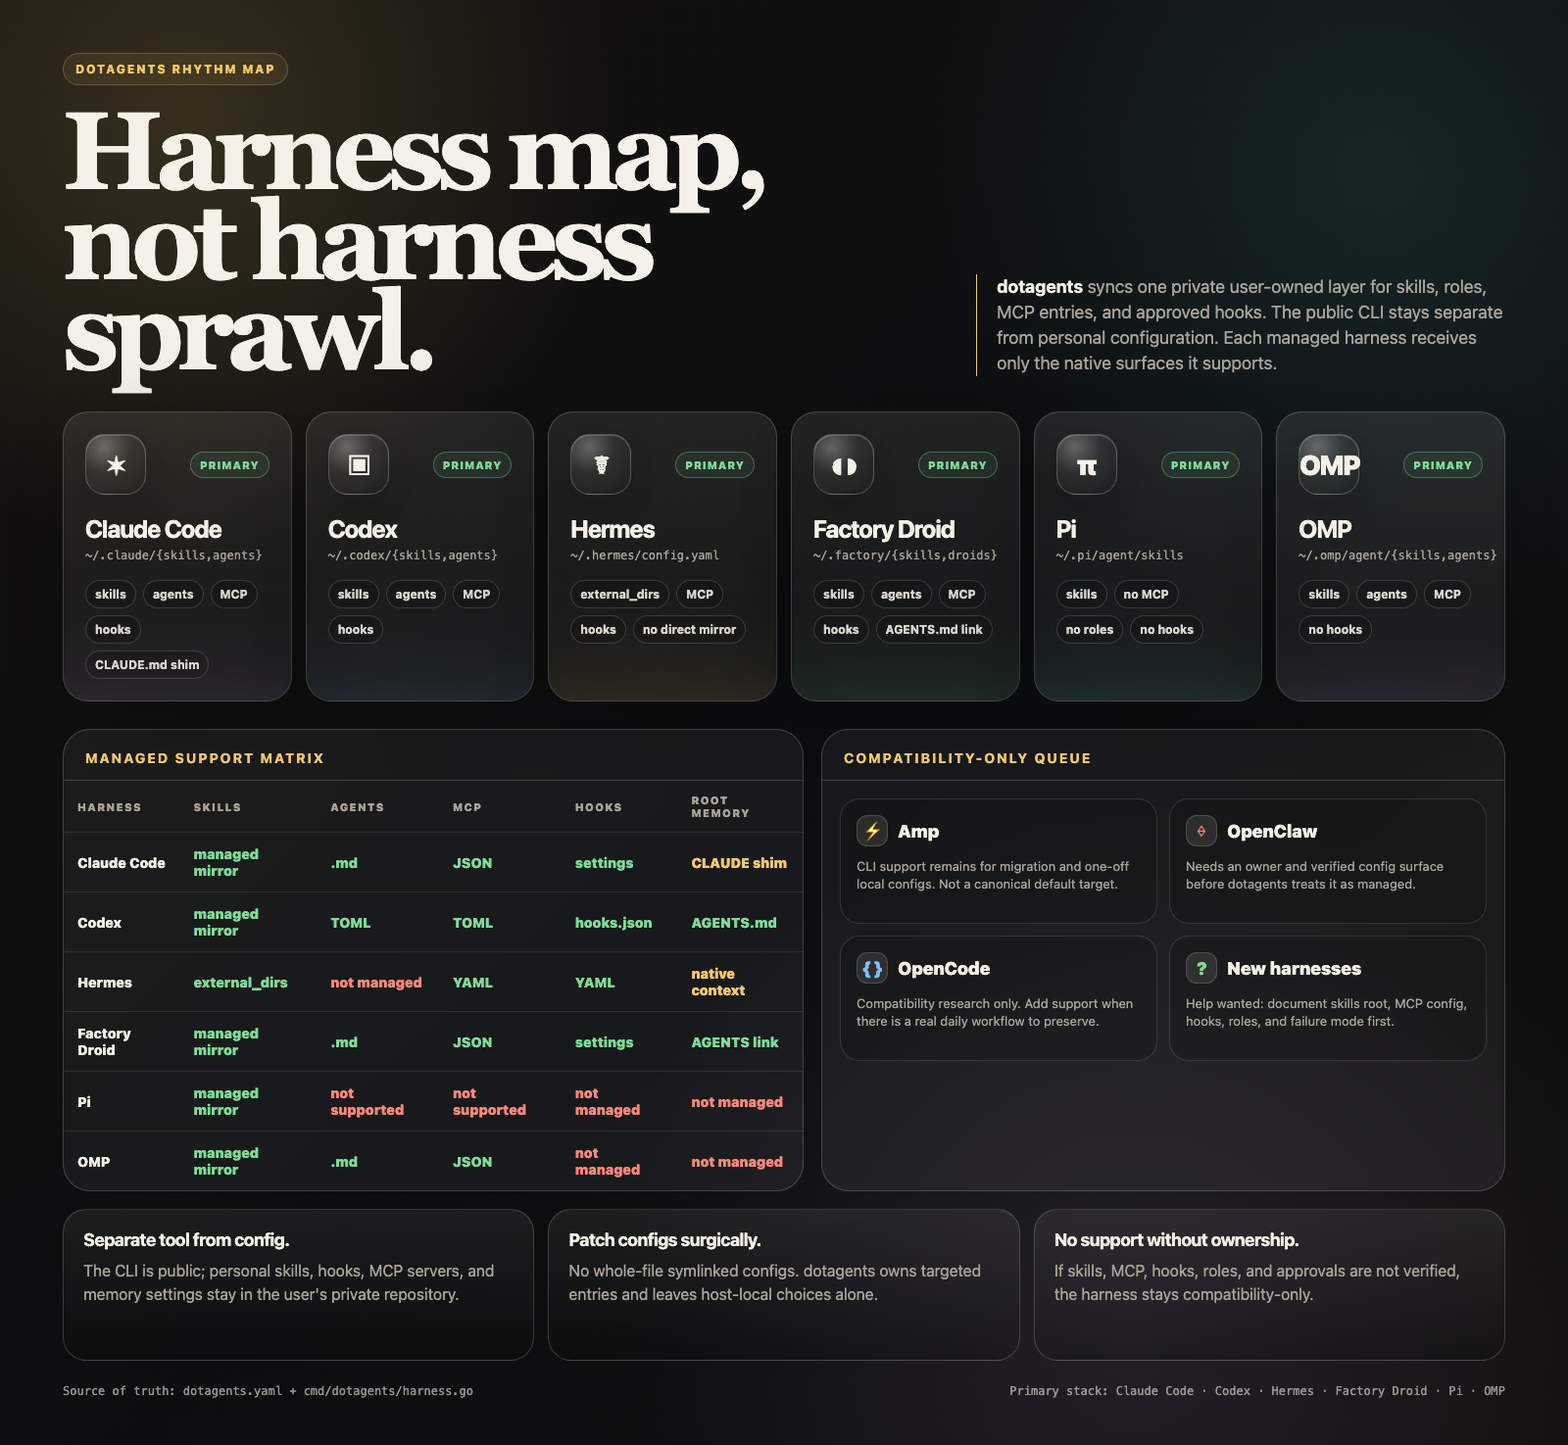
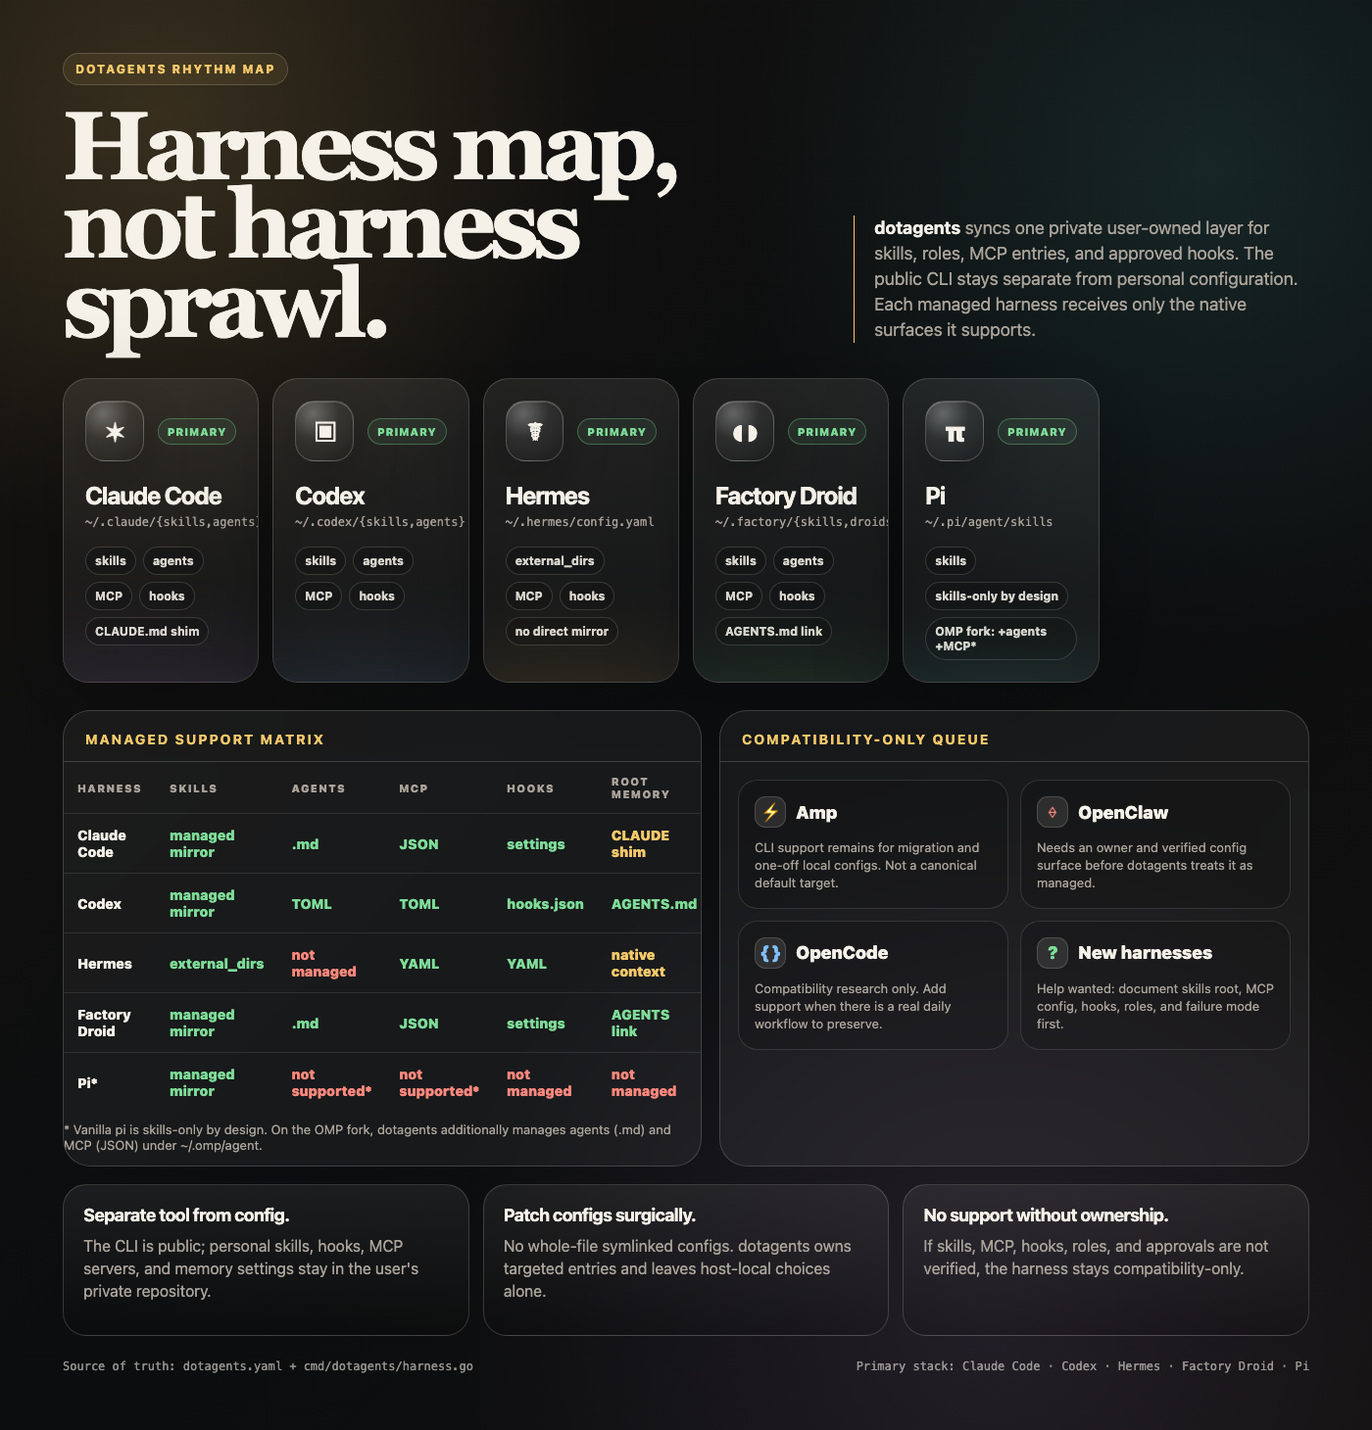
README as docs: full rework; fold OMP into Pi footnote everywhere

diff --git a/docs/site/index.html b/docs/site/index.html
@@ -4,7 +4,7 @@
 <meta charset="utf-8">
 <meta name="viewport" content="width=device-width, initial-scale=1">
 <title>dotagents - public CLI for your private agent config</title>
-<meta name="description" content="Public Go CLI that syncs skills, MCP servers, hooks, and roles from your private ~/.agents repository into Claude Code, Codex, Droid, Hermes, Pi, and OMP.">
+<meta name="description" content="Public Go CLI that syncs skills, MCP servers, hooks, and roles from your private ~/.agents repository into Claude Code, Codex, Droid, Hermes, and Pi.">
 <style>
   :root {
     color-scheme: dark;
@@ -266,7 +266,7 @@
         <div class="hname">Hermes</div>
         <div class="htag managed">managed</div>
       </div>
-      <!-- Pi - Greek pi (no public SVG logo) -->
+      <!-- Pi - Greek pi (no public SVG logo); OMP fork folded into the same card -->
       <div class="hcard">
         <div class="icon">
           <svg viewBox="0 0 24 24" xmlns="http://www.w3.org/2000/svg">
@@ -274,16 +274,6 @@
           </svg>
         </div>
         <div class="hname">Pi</div>
-        <div class="htag managed">managed</div>
-      </div>
-      <!-- OMP - Oh My Pi -->
-      <div class="hcard">
-        <div class="icon">
-          <svg viewBox="0 0 40 40" xmlns="http://www.w3.org/2000/svg">
-            <text x="20" y="25" text-anchor="middle" font-family="ui-sans-serif,-apple-system,sans-serif" font-size="12" font-weight="800" fill="var(--violet)">OMP</text>
-          </svg>
-        </div>
-        <div class="hname">OMP</div>
         <div class="htag managed">managed</div>
       </div>
       <!-- Amp - Sourcegraph triple chevron -->
@@ -397,11 +387,11 @@
           <tr><th scope="row">Codex</th><td class="y">yes</td><td class="y">yes</td><td class="y">yes</td><td class="y">yes</td><td class="y">AGENTS.md</td></tr>
           <tr><th scope="row">Factory Droid</th><td class="y">yes</td><td class="y">yes</td><td class="y">yes</td><td class="y">yes</td><td class="y">AGENTS link</td></tr>
           <tr><th scope="row">Hermes</th><td class="y">yes</td><td class="n">--</td><td class="y">yes</td><td class="y">yes</td><td style="color:var(--gold)">native ctx</td></tr>
-          <tr><th scope="row">Pi</th><td class="y">yes</td><td class="n">--</td><td class="n">--</td><td class="n">--</td><td class="n">--</td></tr>
-          <tr><th scope="row">OMP</th><td class="y">yes</td><td class="y">yes</td><td class="y">yes</td><td class="n">--</td><td class="n">--</td></tr>
+          <tr><th scope="row">Pi*</th><td class="y">yes</td><td class="n">--*</td><td class="n">--*</td><td class="n">--</td><td class="n">--</td></tr>
         </tbody>
       </table>
       </div>
+      <p class="section-sub" style="margin-top:10px">* Vanilla pi is skills-only by design; on the OMP fork dotagents additionally manages agent roles and MCP servers.</p>
     </div>
   </section>
 

diff --git a/docs/harness-map.html b/docs/harness-map.html
@@ -308,12 +308,7 @@
     <article class="card" style="--accent: var(--cyan)">
       <div class="topline"><div class="logo">π</div><div class="badge">primary</div></div>
       <h2>Pi</h2><div class="path">~/.pi/agent/skills</div>
-      <div class="chips"><span class="chip">skills</span><span class="chip">no MCP</span><span class="chip">no roles</span><span class="chip">no hooks</span></div>
-    </article>
-    <article class="card" style="--accent: var(--violet)">
-      <div class="topline"><div class="logo">OMP</div><div class="badge">primary</div></div>
-      <h2>OMP</h2><div class="path">~/.omp/agent/{skills,agents}</div>
-      <div class="chips"><span class="chip">skills</span><span class="chip">agents</span><span class="chip">MCP</span><span class="chip">no hooks</span></div>
+      <div class="chips"><span class="chip">skills</span><span class="chip">skills-only by design</span><span class="chip">OMP fork: +agents +MCP*</span></div>
     </article>
   </section>
 
@@ -328,11 +323,11 @@
           <tr><td>Codex</td><td class="yes">managed mirror</td><td class="yes">TOML</td><td class="yes">TOML</td><td class="yes">hooks.json</td><td class="yes">AGENTS.md</td></tr>
           <tr><td>Hermes</td><td class="yes">external_dirs</td><td class="no">not managed</td><td class="yes">YAML</td><td class="yes">YAML</td><td class="partial">native context</td></tr>
           <tr><td>Factory Droid</td><td class="yes">managed mirror</td><td class="yes">.md</td><td class="yes">JSON</td><td class="yes">settings</td><td class="yes">AGENTS link</td></tr>
-          <tr><td>Pi</td><td class="yes">managed mirror</td><td class="no">not supported</td><td class="no">not supported</td><td class="no">not managed</td><td class="no">not managed</td></tr>
-          <tr><td>OMP</td><td class="yes">managed mirror</td><td class="yes">.md</td><td class="yes">JSON</td><td class="no">not managed</td><td class="no">not managed</td></tr>
+          <tr><td>Pi*</td><td class="yes">managed mirror</td><td class="no">not supported*</td><td class="no">not supported*</td><td class="no">not managed</td><td class="no">not managed</td></tr>
         </tbody>
       </table>
       </div>
+      <p style="margin-top:10px; color: var(--muted); font-size: 13px">* Vanilla pi is skills-only by design. On the OMP fork, dotagents additionally manages agents (.md) and MCP (JSON) under ~/.omp/agent.</p>
     </div>
 
     <div class="panel">
@@ -354,7 +349,7 @@
 
   <footer>
     <span>Source of truth: dotagents.yaml + cmd/dotagents/harness.go</span>
-    <span>Primary stack: Claude Code · Codex · Hermes · Factory Droid · Pi · OMP</span>
+    <span>Primary stack: Claude Code · Codex · Hermes · Factory Droid · Pi</span>
   </footer>
 </main>
 </body>

diff --git a/README.md b/README.md
@@ -1,16 +1,25 @@
 # dotagents
 
-Dotfiles for your AI agents. The public `dotagents` CLI keeps one user-owned `~/.agents` repository as the canonical source for skills, MCP servers, hooks, and agent roles, then syncs each supported surface into Claude Code, Codex, Pi, Hermes, and other supported harnesses. External Git skills are commit-pinned in `dotagents.lock` and audited before delivery.
+Dotfiles for your AI agents.
 
-The public tool and private user configuration are separate repositories. Installing `yourconscience/dotagents` does not install the maintainer's personal prompts, hooks, or MCP catalog.
+One private `~/.agents` git repository holds your skills, MCP servers, hooks, and agent roles. The `dotagents` CLI syncs each of those into the native format of every coding agent you use — Claude Code, Codex, Factory Droid, Hermes, Pi — and follows you across machines the way dotfiles do. External skills are commit-pinned and audited before any agent loads them.
 
-**Landing page:** [yourconscience.github.io/dotagents](https://yourconscience.github.io/dotagents/) · [**Releases**](https://github.com/yourconscience/dotagents/releases)
+[**Releases**](https://github.com/yourconscience/dotagents/releases) · [Landing page](https://yourconscience.github.io/dotagents/)
 
 ![dotagents harness map](./docs/harness-map.png)
 
-## Install
+## Why
 
-Install the CLI on macOS or Linux:
+If you use more than one coding agent, you maintain the same four things — skills, MCP servers, hooks, subagent roles — in a different place and format for each harness. Copying them by hand drifts within a week. Shell config solved this decades ago with dotfiles: one versioned repo, rendered into place. dotagents applies that pattern to agent config.
+
+Two design choices worth knowing up front:
+
+- **User-level, not project-level.** Your setup lives in `~/.agents` and applies everywhere you work. Tools like rulesync and ruler generate per-project config instead; see [How it differs](#how-it-differs).
+- **The tool and your config are separate.** Installing dotagents never installs anyone else's prompts. Your `~/.agents` is yours, private, and versioned by you.
+
+## Quick start
+
+Install the CLI (macOS or Linux):
 
 ```bash
 # Prebuilt release binary
@@ -23,32 +32,44 @@ mise use -g github:yourconscience/dotagents
 go install github.com/yourconscience/dotagents/cmd/dotagents@latest
 ```
 
-Then create your private canonical configuration:
+Then run:
 
 ```bash
 dotagents setup
 ```
 
-`setup` creates `~/.agents` when needed, detects installed harnesses, scans their existing skills, roles, and MCP servers, offers to copy or convert that content without modifying the originals, writes `dotagents.yaml`, and runs the first sync. Name conflicts are resolved explicitly; content is never merged silently. Before the first sync touches a harness that already has content, setup previews exactly what would be removed or overwritten there and asks per harness; declining keeps that harness's existing files.
+`setup` does everything a first run needs, interactively:
 
-`setup` also offers to initialize `~/.agents` as a git repository. To sync the same configuration across machines, add a private remote:
+1. Creates `~/.agents` if it does not exist and copies in the starter content (two skills, five roles, memory hooks, a minimal `dotagents.yaml`).
+2. Detects which harnesses are installed and records their native paths.
+3. Scans each harness for skills, roles, and MCP servers you already have, and offers to import them into `~/.agents` — copy-only, originals untouched, name conflicts prompted one by one.
+4. Before its first sync touches a harness that already has content, shows exactly what would be removed or overwritten there and asks per harness. Declining keeps that harness's files.
+5. Offers to `git init` the new repository, and runs the first sync.
+
+To carry the same setup to other machines, add a private remote:
 
 ```bash
 cd ~/.agents
 git remote add origin <your-private-repository>
 git push -u origin main
+# on the next machine: clone it to ~/.agents, install dotagents, run dotagents setup
 ```
 
-Use `DOTAGENTS_HOME=/path/to/config` to replace `~/.agents`, or pass `--config /path/to/dotagents.yaml` for one command. dotagents never discovers configuration by walking the current project.
+Verify state any time:
+
+```bash
+dotagents status   # per-harness sync state
+dotagents doctor   # health checks: frontmatter, lock pins, audits, hooks
+```
 
 ## What it syncs
 
-Exactly four surfaces:
+Exactly four surfaces, each rendered into the harness's own format — dotagents does not invent compatibility files a harness cannot consume:
 
-1. **Skills** — canonical `SKILL.md` directories, including commit-pinned external Git skills.
-2. **MCP servers** — canonical YAML entries rendered into each supported native config.
+1. **Skills** — `SKILL.md` directories, symlinked or copied to each harness's skill root.
+2. **MCP servers** — one YAML entry, rendered into each supported native config (JSON, TOML, or YAML as the harness requires).
 3. **Hooks** — lifecycle hooks registered only where the harness exposes a verified hook surface.
-4. **Agent roles** — canonical Markdown role definitions rendered into each supported native format.
+4. **Agent roles** — Markdown role definitions rendered to native formats (Claude Markdown, Codex TOML, Droid).
 
 | Harness | Skills | Roles | MCP | Hooks |
 |---|---|---|---|---|
@@ -56,31 +77,66 @@ Exactly four surfaces:
 | Codex | yes | yes | yes | yes |
 | Factory Droid | yes | yes | yes | yes |
 | Hermes | yes | -- | yes | yes |
-| Pi | yes | -- | -- | -- |
-| OMP | yes | yes | yes | -- |
+| Pi* | yes | --* | --* | -- |
 
-Unsupported surfaces are skipped; dotagents does not invent compatibility files a harness cannot consume.
+\* Vanilla [pi](https://github.com/earendil-works/pi) is skills-only by design. If you run the OMP fork instead, dotagents detects it separately and additionally manages roles and MCP servers there — the two never conflict.
 
-## Public starter content
+Amp, OpenCode, and OpenClaw can read the repo's skills through standard conventions but are not managed; a surface gets a "yes" above only after its native behavior is verified end to end.
 
-<!-- BEGIN GENERATED SKILLS -->
-2 skills ship with this repo:
+## Working with skills
 
-`dotagents` `grilling`
-<!-- END GENERATED SKILLS -->
+A skill is a directory under `~/.agents/skills/` containing a `SKILL.md` with name and description frontmatter ([agentskills.io](https://agentskills.io) convention). Create one and it appears in every configured harness:
 
-`dotagents` provides self-management guidance. `grilling` is a materialized,
-commit-pinned example from [`mattpocock/skills`](https://github.com/mattpocock/skills).
+```bash
+dotagents skill new review-checklist --description "Pre-merge review checklist"
+dotagents sync
+```
 
-It also ships five generic Markdown roles:
+Already wrote a skill inside one harness? Promote it to canonical so every agent gets it:
 
-`architect` `builder` `researcher` `reviewer` `tester`
+```bash
+dotagents skill promote my-skill        # finds it in a native skill root, copies it under ~/.agents
+```
 
-First-run setup copies missing starter assets into the private canonical root. Files already owned by the user are not overwritten. A same-name role in `~/.agents/agents/` is the canonical user version.
+### External skills: pinned, audited
 
-## Memory tiers
+Pulling skills from other people's repos is installing prompt code from strangers — dotagents treats it like a dependency, not a download. Declare a source in `dotagents.yaml`:
 
-Choose a tier during setup:
+```yaml
+external_skills:
+  - url: https://github.com/mattpocock/skills
+    branch: main
+    skill_dirs: [skills/productivity/grilling]
+    materialize: true
+```
+
+- `dotagents.lock` pins the source to an exact commit; agents only ever see the pinned tree.
+- `materialize: true` copies the selected directories into `~/.agents/skills/<name>` so the content is versioned in your repo and diffable on update.
+- `dotagents skill update [name ...]` is the only thing that advances a pin — updates are deliberate, never implicit.
+- `dotagents doctor` scans external sources for risky patterns (exfiltration, shell abuse) and detects drift between the lock and the materialized copies.
+
+## MCP servers
+
+Declare once, target the harnesses you want:
+
+```yaml
+mcp_servers:
+  - name: tavily
+    enabled: true
+    command: npx
+    args: [-y, mcp-remote@0.1.38, "https://mcp.tavily.com/mcp"]
+    agents: [claude-code, codex, hermes, droid]
+```
+
+`dotagents mcp list|add|import|remove` manages entries from the CLI; `import` pulls servers you already configured in a harness into the canonical config. Secrets belong in env var references — import refuses literal secrets in command arguments.
+
+## Agent roles
+
+A role is a Markdown file in `~/.agents/agents/` with frontmatter (`name`, `description`, `model`, `effort`, `tools`, optional per-harness overrides) and the system prompt as body. dotagents renders it into each harness's native format — e.g. TOML for Codex. Five generic starter roles ship with the tool: `architect` `builder` `researcher` `reviewer` `tester`. A same-name file in your `~/.agents/agents/` always wins over the starter.
+
+## Hooks and memory
+
+Hooks are lifecycle commands (session start/end, stop) registered per harness in `dotagents.yaml`. dotagents ships a memory integration built on them — pick a tier during setup:
 
 ```bash
 dotagents setup --memory basic      # default
@@ -90,30 +146,28 @@ dotagents setup --memory memsearch
 
 | Tier | Behavior | Dependency |
 |---|---|---|
-| `off` | registers no managed memory hooks | none |
-| `basic` | appends bounded session digests under `$KNOWLEDGE_DIR/sessions/` and injects recent entries at session start | Python 3 |
-| `memsearch` | indexed search and vault synchronization through the full memory hook pipeline | `memsearch` |
+| `off` | no managed memory hooks | none |
+| `basic` | appends a bounded digest of each session to `$KNOWLEDGE_DIR/sessions/YYYY-MM-DD.md` and injects recent digests as context at session start | Python 3 |
+| `memsearch` | full-text indexed search over the knowledge vault | `memsearch` on PATH (`uv tool install memsearch`) |
 
-Memory data belongs in the user's knowledge directory, not in the public tool repository.
+Memory data lives in your knowledge directory (default `~/Workspace/knowledge`, configurable via `KNOWLEDGE_DIR`), never in the tool repository.
 
-## Key commands
+## Command reference
 
 ```bash
-dotagents setup [--memory off|basic|memsearch] [--agents ...]
-dotagents status [--agents ...]
-dotagents sync [--pull] [--agents ...]
-dotagents doctor [--e2e] [--agents ...]
-dotagents skill new <name> [--description ...]
-dotagents skill update [name ...]
-dotagents skill promote <name-or-path> [--dry-run]
-dotagents mcp <list|add|import|remove> [options]
+dotagents setup    [--memory off|basic|memsearch] [--agents ...]   # first run, import, memory tier, first sync
+dotagents status   [--agents ...]                                  # per-harness sync state
+dotagents sync     [--pull] [--agents ...]                         # reconcile all harnesses (--pull: git pull first)
+dotagents doctor   [--e2e] [--agents ...]                          # health checks and audits
+dotagents skill    new|update|promote                              # create, advance pins, canonicalize
+dotagents mcp      list|add|import|remove                          # manage MCP entries
 ```
 
-Run `dotagents help --all` for maintenance commands and explicitly labeled compatibility aliases.
+`dotagents help --all` lists maintenance commands and compatibility aliases.
 
 ## Configuration
 
-The generated `~/.agents/dotagents.yaml` is the source of truth. The public template is intentionally small:
+`~/.agents/dotagents.yaml` is the single source of truth. The shipped template is intentionally small — `setup` fills in detected harnesses:
 
 ```yaml
 version: 1
@@ -126,22 +180,30 @@ external_skills:
     materialize: true
 ```
 
-Agent entries record detected harness paths. MCP servers and hooks are managed entries; unrelated native config remains untouched.
+- Config resolution order: `--config <path>` → `$DOTAGENTS_HOME/dotagents.yaml` → `~/.agents/dotagents.yaml`. dotagents never walks the current project directory looking for config.
+- `dotagents.local.yaml` next to the main config overlays machine-local entries (kept out of git) on top of the shared ones.
+- Managed entries are marked as such in native configs; anything dotagents did not create is left untouched.
 
-## External skills
+## Public starter content
 
-Pull and pin a Git skill library once, selecting paths from any upstream subdirectory:
+<!-- BEGIN GENERATED SKILLS -->
+2 skills ship with this repo:
 
-```yaml
-external_skills:
-  - url: https://github.com/example/shared-skills
-    branch: main
-    skill_dirs: [engineering/alpha, productivity/beta]
-    materialize: true
-```
+`dotagents` `grilling`
+<!-- END GENERATED SKILLS -->
 
-`materialize: true` makes `dotagents sync` copy each selected tree exactly into canonical `skills/<basename>` and prune stale owned files. `dotagents.lock` pins the source commit and records ownership so `doctor` can detect drift. `dotagents skill update [name ...]` explicitly advances pins. `doctor` also scans external sources for risky patterns before delivery.
+`dotagents` is the self-management skill (agents can run status/sync/doctor for you). `grilling` is a live example of a materialized, commit-pinned external skill from [`mattpocock/skills`](https://github.com/mattpocock/skills). First-run setup copies starter files only where you don't already have them.
+
+## Troubleshooting
+
+- **`dotagents doctor`** is the first stop: it validates skill frontmatter, role definitions, lock pins, materialized copies, hook registration, and audits external sources.
+- **Upgrading from an old config** that targets agent `pi` with MCP: vanilla Pi has no MCP surface, so the target is ignored with a warning — rename `pi` to `omp` in `dotagents.yaml` if you meant the OMP fork.
+- **A sync proposed removals you didn't expect:** setup-driven syncs always preview removals per harness and default to keeping your files; answer `n` and inspect with `dotagents status`.
 
 ## How it differs
 
-[rulesync](https://github.com/dyoshikawa/rulesync) and [ruler](https://github.com/intellectronica/ruler) are project-level tools: they generate per-tool configuration inside a project and cover a broad tool set. dotagents is user-level: one private configuration follows you across projects, machines, and supported harnesses. [openskills](https://github.com/numman-ali/openskills) focuses on installing skills; dotagents manages the four user-level surfaces together and pins external Git skill sources.
+[rulesync](https://github.com/dyoshikawa/rulesync) and [ruler](https://github.com/intellectronica/ruler) are project-level: they generate per-tool configuration inside a repository and win on tool breadth. dotagents is user-level: one private config follows you across projects and machines, and it goes deeper per harness — native role rendering, hook registration, and commit-pinned, audited external skills. [openskills](https://github.com/numman-ali/openskills) installs skills; dotagents manages all four user-level surfaces together.
+
+## License
+
+[MIT](./LICENSE)
